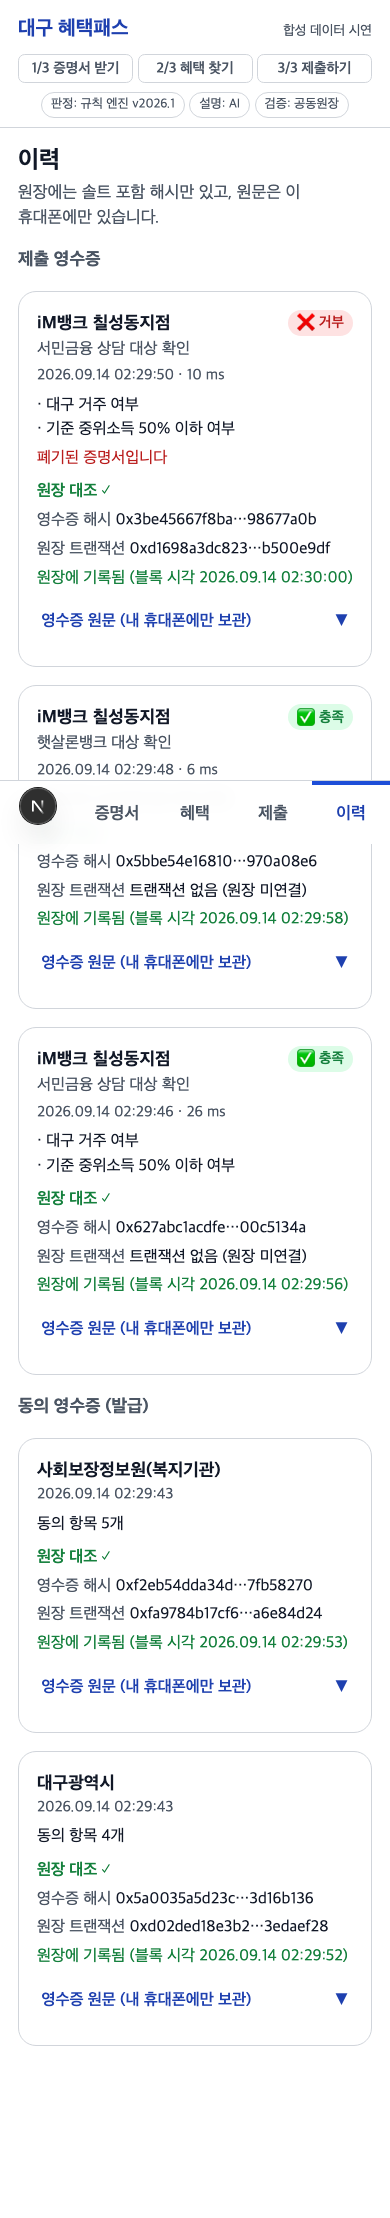
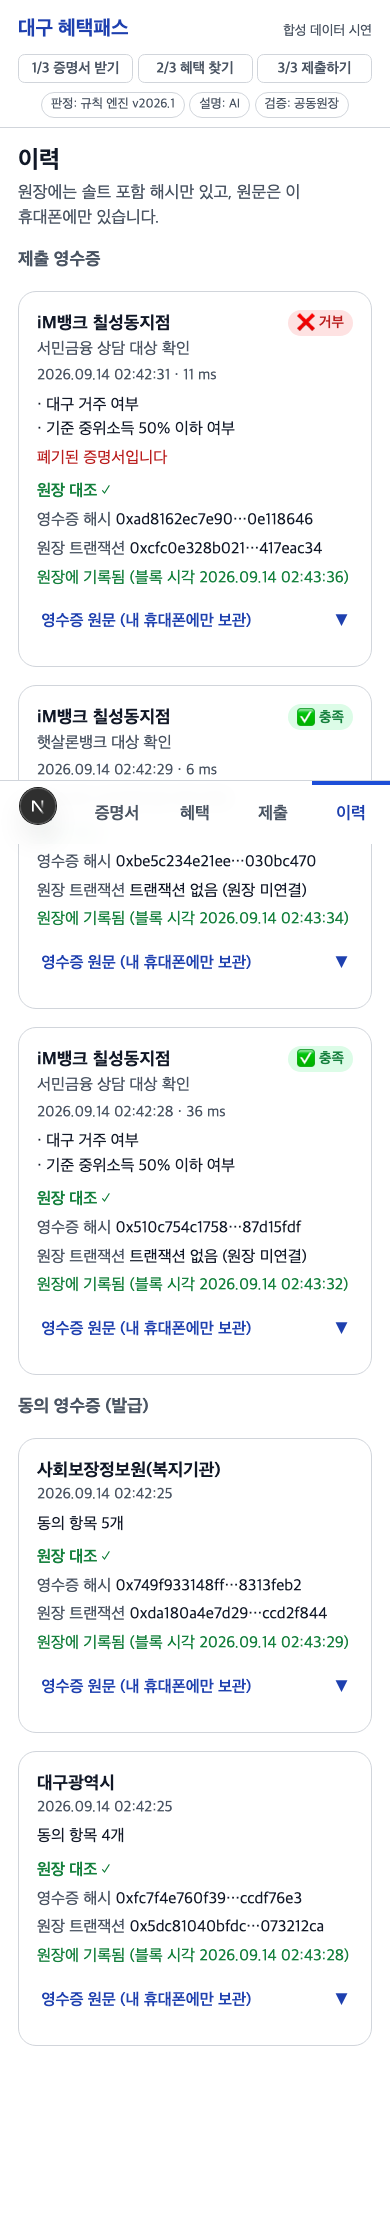
chore: 최종 제안요약서와 정합 — 프리셋 '공공요금 감면' 명칭 통일, PII 지표 2시나리오(80%/90%) 측정, 정합성 점검표

diff --git a/apps/verifier/src/lib/copy.ts b/apps/verifier/src/lib/copy.ts
@@ -99,8 +99,8 @@ export const PRESETS_FALLBACK: readonly Preset[] = [
   },
   {
     id: "discount",
-    label: "수급자·차상위 감면 대상 확인",
-    purpose: "수급자·차상위 감면 대상 확인",
+    label: "공공요금 감면 대상 확인",
+    purpose: "공공요금 감면 대상 확인",
     requested: [{ claim: "incomeBelow50Median", expected: true }],
     hint: "수급자 증명서 원본 대신 소득구간 참/거짓 1개 항목만 받습니다 — 급여 종류·금액은 받지 않습니다.",
   },

diff --git a/scripts/pii_items.py b/scripts/pii_items.py
@@ -32,28 +32,45 @@ def items_in_vp(vp_jwt: str) -> tuple[list[str], list[str]]:
     return personal, meta
 
 
-def example_vp() -> str:
+SCENARIOS = {
+    "서민금융 상담 대상 확인": [("did:dbp:daegu", "daeguResident"), ("did:dbp:welfare", "incomeBelow50Median")],
+    "햇살론뱅크 대상 확인": [("did:dbp:welfare", "annualIncomeUnder35M")],
+}
+
+
+def example_vp(claims: list[tuple[str, str]]) -> str:
     from dbp_vc import create_vp, generate_holder_key, issue_vc
-    issuer = generate_holder_key(bytes([1]) * 32)
     holder = generate_holder_key(bytes([2]) * 32)
-    vcs = [issue_vc(id=f"urn:uuid:demo-{c}", issuer_did="did:dbp:daegu", issuer_kid="did:dbp:daegu#key-1",
-                    issuer_private_key=issuer.private_key, holder_did=holder.did, claim={"name": c, "value": True},
-                    valid_from="2026-09-01T00:00:00Z", valid_until="2027-09-14T00:00:00Z",
-                    status={"listId": "dbp:status:daegu:list-1", "index": i},
-                    evidence={"bundle": "daegu-eligibility", "version": "2026.1", "bundleHash": "0x" + "00" * 32})
-           for i, c in enumerate(["daeguResident", "incomeBelow50Median"])]
+    vcs = []
+    for i, (issuer_did, c) in enumerate(claims):
+        issuer = generate_holder_key(bytes([1 if issuer_did.endswith("daegu") else 3]) * 32)
+        vcs.append(issue_vc(id=f"urn:uuid:demo-{c}", issuer_did=issuer_did, issuer_kid=issuer_did + "#key-1",
+                            issuer_private_key=issuer.private_key, holder_did=holder.did, claim={"name": c, "value": True},
+                            valid_from="2026-09-01T00:00:00Z", valid_until="2027-09-14T00:00:00Z",
+                            status={"listId": f"dbp:status:{issuer_did.split(':')[-1]}:list-1", "index": i},
+                            evidence={"bundle": "daegu-eligibility", "version": "2026.1", "bundleHash": "0x" + "00" * 32}))
     return create_vp(holder_did=holder.did, holder_private_key=holder.private_key,
                      verifier_did="did:dbp:verifier-imbank-branch-01", nonce="n_demo", vc_jwts=vcs)
 
 
-def main() -> int:
-    vp = sys.argv[1] if len(sys.argv) > 1 else example_vp()
+def measure(vp: str) -> dict:
     personal, meta = items_in_vp(vp)
     reduction = round((1 - len(personal) / len(LEGACY_ITEMS)) * 100)
-    report = {"legacyPersonalItems": LEGACY_ITEMS, "legacyCount": len(LEGACY_ITEMS),
-              "benefitPassPersonalItems": personal, "benefitPassCount": len(personal),
-              "credentialMetadata(not personal data)": meta,
-              "reductionPercent": reduction, "target": ">=70%", "pass": reduction >= 70}
+    return {"benefitPassPersonalItems": personal, "benefitPassCount": len(personal),
+            "credentialMetadata(not personal data)": meta, "reductionPercent": reduction, "pass": reduction >= 70}
+
+
+def main() -> int:
+    if len(sys.argv) > 1:
+        scenarios = {"(제공된 VP)": measure(sys.argv[1])}
+    else:
+        scenarios = {name: measure(example_vp(claims)) for name, claims in SCENARIOS.items()}
+    first = next(iter(scenarios.values()))
+    report = {"legacyPersonalItems": LEGACY_ITEMS, "legacyCount": len(LEGACY_ITEMS), "target": ">=70%",
+              "scenarios": scenarios,
+              # 하위 호환 (리포트 생성기): 대표 시나리오 = 서민금융 상담(2항목)
+              "benefitPassPersonalItems": first["benefitPassPersonalItems"], "benefitPassCount": first["benefitPassCount"],
+              "reductionPercent": first["reductionPercent"], "pass": all(s["pass"] for s in scenarios.values())}
     print(json.dumps(report, ensure_ascii=False, indent=2))
     return 0 if report["pass"] else 1
 

diff --git a/scripts/make_report.py b/scripts/make_report.py
@@ -77,7 +77,7 @@ def main() -> int:
         "| 항목 | 기준 | 결과 | 상태 |", "|---|---|---|---|",
         f"| 판정 정확성 | 합성 시민 {exp['citizenCount']}명 × 정책 {exp['policyCount']}개 = {exp['verdictCount']}건 100% 일치 | Python/TS 엔진 모두 기댓값과 일치 (pytest·vitest 포함) | {mark(py.get('ok') and ts_rules.get('ok'))} |",
         f"| 엔진 동등성 | TS/Py 번들 해시 동일 | vitest 해시 검증 | {mark(ts_rules.get('ok'))} |",
-        f"| 개인정보 최소화 | 기관 전달 항목 ≥70% 감소 | {pii.get('legacyCount')}개 → {pii.get('benefitPassCount')}개 ({pii.get('reductionPercent')}% 감소) | {mark(pii.get('pass'))} |",
+        f"| 개인정보 최소화 | 기관 전달 항목 ≥70% 감소 | " + " · ".join(f"{k}: {pii.get('legacyCount')}개 → {v['benefitPassCount']}개 ({v['reductionPercent']}% 감소)" for k, v in (pii.get('scenarios') or {}).items()) + f" | {mark(pii.get('pass'))} |",
         f"| 보안 | 위조·만료·폐기·재사용·타인 증명서·비활성 발급기관 차단 | services/verifier 테스트 | {mark(py.get('ok'))} |",
         f"| AI 신뢰성·PII 차단 | 인용 검증, 환각 프로브, 페이로드 allowlist | services/ai 테스트 | {mark(py.get('ok'))} |",
         f"| 검증 성능 | p95 < 2,000ms | {('p95 ' + str(bench.get('p95Ms')) + 'ms, 평균 ' + str(bench.get('meanMs')) + 'ms (' + str(bench.get('runs')) + '회)') if bench else '미측정 (scripts/bench_verify.py 실행 필요)'} | {mark(bench and bench.get('p95Ms', 9999) < 2000)} |",

diff --git a/services/verifier/src/dbp_verifier/config.py b/services/verifier/src/dbp_verifier/config.py
@@ -19,9 +19,9 @@ PRESETS = [
     {"id": "new-hope", "label": "새희망홀씨 대상 확인", "purpose": "새희망홀씨 대상 확인",
      "requested": [{"claim": "annualIncomeUnder35M", "expected": True}], "policyId": "new-hope-loan",
      "hint": "소득금액증명 원본 대신 '연소득 3,500만 원 이하 = 참' 1개 항목만 받습니다. 신용평점은 은행이 자체 조회합니다."},
-    {"id": "discount", "label": "수급자·차상위 감면 대상 확인", "purpose": "수급자·차상위 감면 대상 확인",
+    {"id": "discount", "label": "공공요금 감면 대상 확인", "purpose": "공공요금 감면 대상 확인",
      "requested": [{"claim": "incomeBelow50Median", "expected": True}], "policyId": None,
-     "hint": "수급자증명서 원본 대신 '기준 중위소득 50% 이하 = 참' 1개 항목만 받습니다."},
+     "hint": "전기·도시가스·통신 요금 감면 창구가 수급자증명서 원본 대신 '기준 중위소득 50% 이하 = 참' 1개 항목만 받습니다."},
 ]
 REASON_KO = {
     "AUD_MISMATCH": "다른 기관에 제출된 증명입니다",

diff --git a/docs/PROPOSAL_DELTA.md b/docs/PROPOSAL_DELTA.md
@@ -1,21 +1,25 @@
-# 제안요약서(2026-09-14 개정판) 대비 실제 구현 차이 — 제출 전 문서 수정용
+# 제안요약서(최종판, 2026-09-14 02:39) ↔ 구현 정합성 점검표
 
-개정판 제안요약서(제목 "공공이 판정한 복지 자격을 은행 창구에서 소득 노출 없이 증명하는 AI·블록체인 인프라")를 기준으로 한다.
+최종판 제안요약서는 구현 결과(정책 13종, 발급기관 2곳, 측정치)를 이미 반영했다. 아래는 문장 단위로 대조한 결과다.
 
-| 제안요약서 서술 | 실제 구현 | 수정 제안 |
+## 일치 확인
+| 제안요약서 서술 | 구현 근거 |
+|---|---|
+| 주요 기능 1 "정책 13종(공공 복지·교통 7 + 은행 서민금융 3 + 민간 감면 3)", 지갑은 은행·민간 창구 혜택 먼저 | `data/policies/*.json` 의 `channel`, 지갑 `/benefits` 3섹션, `docs/screenshots/05-wallet-benefits.png` |
+| ④ "발급기관은 대구광역시(주민등록·가구 사실)와 사회보장정보원 모사(수급·소득구간·연소득 사실) 2개" | `services/issuer/src/dbp_issuer/config.py` `ISSUER_KNOWN_FIELDS`, `claims.json` `issuerOf` |
+| 3) "신용평점은 은행이 자체 조회하는 정보이므로 증명서로 발급하지 않는다" | `issuerOf.creditBottom20 = "self"`, 발급기관 테스트 `CLAIM_NOT_ISSUED_HERE` |
+| 기술 스택: Claude(claude-opus-5)+컨텍스트 주입, JWS 봉투형, Hardhat/Besu QBFT 실기동, OpenID4VCI/VP 미구현, 테스트 Python 154·TS 96·컨트랙트 30 | `services/ai`, `packages/vc`, `chain/besu/README.md`, `docs/TEST_REPORT.md` (TS 96 = rules 38 + vc 58; 앱 테스트 77건은 별도) |
+| 4) "10개 → 2개(80%)", "햇살론뱅크 10개 → 1개(90%)", 발급기관·유효상태는 메타데이터 | `scripts/pii_items.py` 두 시나리오 측정, `docs/TEST_REPORT.md` |
+| 4) "3분 이내 완료 목표, 사용자 측정은 향후 과제" | `docs/DEMO_RUN.md` 미완료 항목 |
+| 5) 시연 시나리오 "햇살론뱅크 상담에서 '연소득 3,500만 원 이하' 한 항목만 제출" | E2E `③'` 단계, `docs/screenshots/10b-verifier-result-sunshine-bank.png` |
+| 5) "용도 프리셋 4종(서민금융 상담 · 햇살론뱅크 · 새희망홀씨 · 공공요금 감면)" | `GET /presets` — 이름을 문서에 맞춰 "공공요금 감면 대상 확인"으로 통일(2026-09-14) |
+| 5) 검증 결과 표(390건, p95 13.2ms/평균 12.4ms, Besu 28ms, 보안 6종, PII 스캔 블록 80·tx 79·로그 76, E2E 통과) | `docs/TEST_REPORT.md`, `docs/bench.json`, `docs/DEMO_RUN.md` |
+| 예상 질의 "iM뱅크·iM저축은행을 검증기관으로 모사" | `services/verifier/src/dbp_verifier/config.py` `VERIFIERS` |
+
+## 남은 미세 차이 (문서 수정 권장)
+| 서술 | 실제 | 권장 |
 |---|---|---|
-| 구조도: 발급기관 "대구시 · 복지기관 (공공)" | 대구광역시(`did:dbp:daegu`, 주민등록·가구 사실) + 사회보장정보원 모사(`did:dbp:welfare`, 수급·소득구간·연소득 사실) 2개 인스턴스 | 2) 처리 흐름 ④에 "복지기관 = 사회보장정보원(사회보장정보시스템) 모사" 한 줄 추가 |
-| 구조도: 검증기관 "은행 · 저축은행 창구" | iM뱅크 지점 + iM저축은행(모사) 프로필, 용도 프리셋 4종(서민금융 상담·햇살론뱅크·새희망홀씨·감면) | 5) 시연 시나리오에 "햇살론뱅크 프리셋: 연소득 3,500만 원 이하 1개 항목만 제출" 명시 |
-| "햇살론뱅크 지원 대상 기준(연소득 3,500만 원 이하, 또는 신용평점 하위 20%이면서 연소득 4,500만 원 이하)" | 규칙 그대로 구현. 신용평점은 VC 로 발급하지 않고(`issuerOf: self`) 은행 자체 조회, 지갑 사전 판정에만 사용 | 3) 차별점에 "신용평점은 은행이 자체 조회하므로 시민이 증명할 대상이 아님" 각주 |
-| 주요 기능 1 "민간 혜택까지 포함한 AI 탐색·설명" | 정책 13개 = 공공 복지·교통 7(복지멤버십 안내 대상) + 은행 서민금융 3(햇살론뱅크·새희망홀씨·소액생계비대출) + 민간 감면 3(통신·전기·도시가스). 지갑은 "은행·민간 창구 혜택(복지멤버십에 없음)" 을 먼저, 공공 복지는 "복지멤버십 안내 대상"으로 짧게 표시 | 데이터셋 칸 "샘플 정책 5~10개" → "13개(공공 7 + 은행·민간 6)" |
-| "W3C VC 2.0 + Ed25519 전자서명" | W3C VC 2.0 데이터 모델 + JWS(EdDSA) 봉투형 증명(vc+jwt / vp+jwt) | 기술 스택 "증명 발급" 칸에 "(JWS 봉투형)" 추가 |
-| "합성 시민 30명 × 정책 5개 = 150건" | 30명 × 13개 = **390건** 100% 일치 (TS/Python 동일 해시 `0x2032a0…dc15`) | 숫자 갱신 |
-| "Hyperledger Besu 권한형 네트워크(QBFT) 또는 EVM 테스트넷" | 기본 시연 Hardhat, Besu QBFT 4노드 실기동 검증(배포·발급·검증·폐기·PII 스캔) | "개발·시연: Hardhat / 권한형: Besu QBFT(검증 완료)" |
-| "한국어 지원 LLM API + RAG" | Anthropic Claude(`claude-opus-5`) + 정책 문서 컨텍스트 주입 + 인용 검증 + 템플릿 폴백. 시스템 프롬프트에 "복지멤버십 안내 대상은 짧게, 은행·민간 창구 혜택은 자세히, 창구 제출 안내 포함" 규칙 | "RAG" → "정책 문서 컨텍스트 주입(소규모 RAG)" |
-| "개인정보 항목 70% 이상 감소 (약 10개 → 약 3개)" | 개인정보 항목 10개 → 2개(80%). 햇살론뱅크 용도는 1개(90%). 발급기관·유효상태는 증명서 메타데이터로 분리 | "10개 → 1~2개(80~90%)" 로 갱신 |
-| "검증 2초 이내" | Hardhat 50회 p95 13ms, Besu 28ms | 측정값 기입 |
-| "고령자 포함 사용자 5명 중 4명 이상 3분 내 완료" | **미측정** | "계획"으로 표기하거나 삭제 |
-| 5) 시연 5단계 | Playwright E2E 가 5단계 + 햇살론뱅크 프리셋 제출 + 공격 4종 + 이력 대조를 자동 재현, 스크린샷 `docs/screenshots/` | 5) 자유 기재란에 스크린샷 삽입 |
-| "OpenID4VCI / OpenID4VP (확장)" | 미구현, 매핑표만 `docs/ARCHITECTURE.md` | "확장 계획" 유지 |
-
-예상 질의 대응은 화면으로 답한다 (`docs/DEMO.md`): 복지멤버십 → ② 섹션 구분, 민간인증서 → ③ 요청 확인 화면, 전자증명서 → ④ "기관이 받은 것" 문구.
+| "단계별 스크린샷 14장" | 16장 (복지기관 동의 `03b`, 햇살론뱅크 결과 `10b` 추가) | "16장" 으로 수정 |
+| "시연 ①~⑦ 전 과정" | 구조도 흐름 ①~⑦ 은 모두 거치지만, `docs/DEMO.md` 는 시연 단계를 ①~⑤ 로 번호 매김 | 문서에 "구조도 ①~⑦ 흐름" 이라고 명시하거나 DEMO.md 번호와 맞춤 |
+| 공격 4종 "위조 서명 · 만료 · 폐기된 증명서 · nonce 재사용" | 검증기관 공격 버튼은 재사용·만료(요청)·위조·타인 증명서 도용 4종이고, 폐기는 별도 단계(⑤)에서 차단 | "위조 · 만료 · 재사용 · 타인 증명서 도용 + 폐기 차단" 으로 표현 |
+| 과제요약 "대구시가 판정한 자격" | 발급기관은 대구시 + 복지기관 2곳 (④에서 설명됨) | 그대로 두어도 무방 |

diff --git a/docs/TEST_REPORT.md b/docs/TEST_REPORT.md
@@ -1,7 +1,7 @@
 # 테스트 리포트
 
-- 생성 시각: 2026-09-14T02:31:02+09:00
-- 커밋: `6dab905`
+- 생성 시각: 2026-09-14T02:42:55+09:00
+- 커밋: `9bf72b4`
[1 lines of base64/hex data omitted]
 
 ## 제안요약서 검증 계획 대응
@@ -10,7 +10,7 @@
 |---|---|---|---|
 | 판정 정확성 | 합성 시민 30명 × 정책 13개 = 390건 100% 일치 | Python/TS 엔진 모두 기댓값과 일치 (pytest·vitest 포함) | ✅ |
 | 엔진 동등성 | TS/Py 번들 해시 동일 | vitest 해시 검증 | ✅ |
-| 개인정보 최소화 | 기관 전달 항목 ≥70% 감소 | 10개 → 2개 (80% 감소) | ✅ |
+| 개인정보 최소화 | 기관 전달 항목 ≥70% 감소 | 서민금융 상담 대상 확인: 10개 → 2개 (80% 감소) · 햇살론뱅크 대상 확인: 10개 → 1개 (90% 감소) | ✅ |
 | 보안 | 위조·만료·폐기·재사용·타인 증명서·비활성 발급기관 차단 | services/verifier 테스트 | ✅ |
 | AI 신뢰성·PII 차단 | 인용 검증, 환각 프로브, 페이로드 allowlist | services/ai 테스트 | ✅ |
 | 검증 성능 | p95 < 2,000ms | p95 13.2ms, 평균 12.4ms (50회) | ✅ |
@@ -41,18 +41,43 @@
     "신분증 사본"
   ],
   "legacyCount": 10,
+  "target": ">=70%",
+  "scenarios": {
+    "서민금융 상담 대상 확인": {
+      "benefitPassPersonalItems": [
+        "daeguResident=True",
+        "incomeBelow50Median=True"
+      ],
+      "benefitPassCount": 2,
+      "credentialMetadata(not personal data)": [
+        "발급기관:did:dbp:daegu",
+        "발급기관:did:dbp:welfare",
+        "유효상태(폐기 여부)",
+        "제출자 DID(가명 키)"
+      ],
+      "reductionPercent": 80,
+      "pass": true
+    },
+    "햇살론뱅크 대상 확인": {
+      "benefitPassPersonalItems": [
+        "annualIncomeUnder35M=True"
+      ],
+      "benefitPassCount": 1,
+      "credentialMetadata(not personal data)": [
+        "발급기관:did:dbp:welfare",
+        "유효상태(폐기 여부)",
+        "제출자 DID(가명 키)"
+      ],
+      "reductionPercent": 90,
+      "pass": true
+    }
+  },
   "benefitPassPersonalItems": [
     "daeguResident=True",
     "incomeBelow50Median=True"
   ],
   "benefitPassCount": 2,
-  "credentialMetadata(not personal data)": [
-    "발급기관:did:dbp:daegu",
-    "유효상태(폐기 여부)",
-    "제출자 DID(가명 키)"
-  ],
   "reductionPercent": 80,
-  "target": ">=70%",
   "pass": true
 }
 ```

diff --git a/docs/ARCHITECTURE.md b/docs/ARCHITECTURE.md
@@ -8,7 +8,7 @@
 | ② 공개키·스키마·규칙 버전 등록 | 거버넌스가 발급기관 공개키 등록, 발급기관 컨트롤러가 번들 해시 등록, 빈 상태목록 게시 | `scripts/seed_ledger.py`, `chain/contracts/IssuerRegistry.sol`, `RuleRegistry.sol`, `StatusListRegistry.sol` |
 | ③ 자격 VC 발급 요청 | 홀더 키로 챌린지 서명(키 보유 증명) + 동의 범위 명시 | 지갑 `/credentials`, `services/issuer` `POST /credentials/challenge`, `/credentials/issue` |
 | ④ 원자적 VC 발급 | 공공 발급기관(대구광역시: 주민등록·가구 사실 / 사회보장정보원(복지기관): 수급·소득구간·연소득 사실)이 자기 소관 claim 만 동일 규칙 버전으로 판정 → 원장 해시 대조 → true 인 사실마다 VC-JWT(EdDSA) 1장 → 동의 영수증 해시 앵커. 신용평점(`issuerOf: self`)은 발급하지 않는다 — 창구가 자체 조회 | `services/issuer/src/dbp_issuer/service.py`, `@dbp/vc issue_vc` |
-| ⑤ 검증 요청 QR | 은행·저축은행 창구가 용도 프리셋(서민금융 상담 / 햇살론뱅크 / 새희망홀씨 / 감면)으로 요청 항목 + 1회용 확인번호(nonce, 120초) + 6자리 코드 | `services/verifier` `POST /requests`, 검증기관 앱 `/` |
+| ⑤ 검증 요청 QR | 은행·저축은행 창구가 용도 프리셋(서민금융 상담 / 햇살론뱅크 / 새희망홀씨 / 공공요금 감면)으로 요청 항목 + 1회용 확인번호(nonce, 120초) + 6자리 코드 | `services/verifier` `POST /requests`, 검증기관 앱 `/` |
 | ⑥ 서명 제출(VP) | 요청된 claim 의 VC 만 골라 홀더 키로 VP-JWT 서명 (원자적 VC = 선택적 공개) | 지갑 `/present`, `@dbp/vc createVp` |
 | ⑦ 발급기관·폐기 상태 조회 | 검증기관은 원장에서 공개키·상태목록·번들 해시만 읽는다. 발급기관 서버에 접속하지 않는다 | `services/verifier/src/dbp_verifier/verify.py`, `packages/ledger-client` |
 
